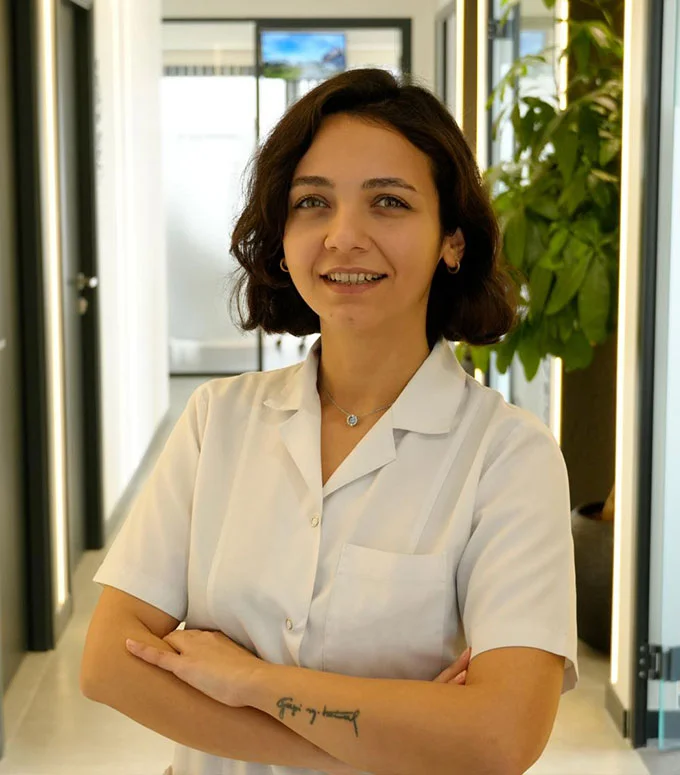
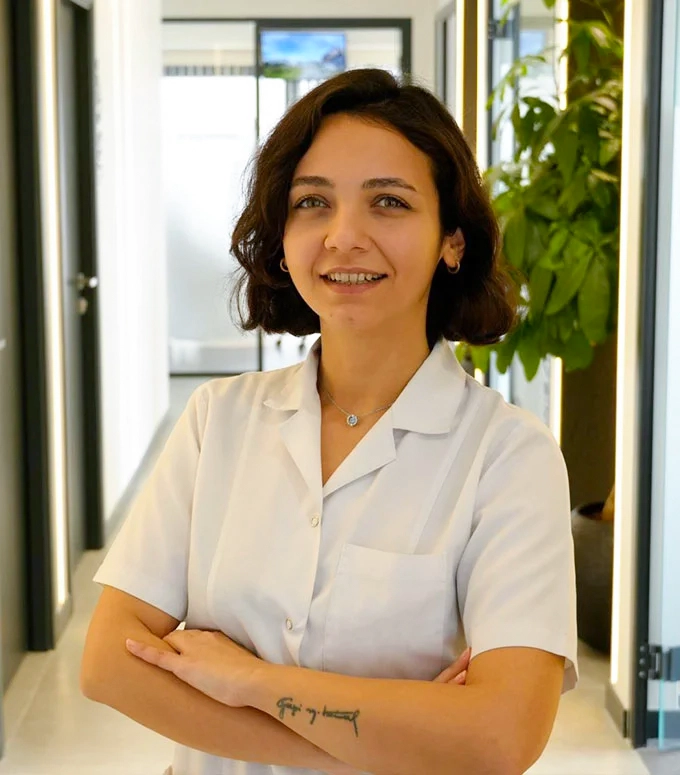
a1: Ucretsiz Muayene randevu blogu, slider gecisi 0.55 sn, hekim fotograflari guncellendi
Claude-Session: https://claude.ai/code/session_01CZ7oaxWpsxduCiVFyRyjQU

diff --git a/a1/index.html b/a1/index.html
@@ -113,8 +113,8 @@ body.lock{overflow:hidden}
 
 /* HERO SLIDER */
 .hero{position:relative;height:clamp(560px,calc(100svh - var(--top-h) - var(--head-h)),860px);overflow:hidden;background:var(--navy);color:#fff;isolation:isolate}
-.slide{position:absolute;inset:0;opacity:0;visibility:hidden;transition:opacity 1.1s var(--ease),visibility 0s 1.1s}
-.slide.on{opacity:1;visibility:visible;transition:opacity 1.1s var(--ease)}
+.slide{position:absolute;inset:0;opacity:0;visibility:hidden;transition:opacity .55s var(--ease),visibility 0s .55s}
+.slide.on{opacity:1;visibility:visible;transition:opacity .55s var(--ease)}
 .slide .ph{position:absolute;inset:0;overflow:hidden}
 .slide .ph img{width:100%;height:100%;object-fit:cover;transform:scale(1.1);transition:transform 7.5s cubic-bezier(.2,.5,.3,1)}
 .slide.on .ph img{transform:scale(1)}
@@ -368,6 +368,40 @@ body.lock{overflow:hidden}
   .dr small{font-size:12.5px;margin-top:4px}
 }
 @media (prefers-reduced-motion:reduce){.dr img,.dr .tx::before{transition:none}}
+/* ===== ÜCRETSİZ MUAYENE (randevu) ===== */
+section[id]{scroll-margin-top:var(--head-h)}
+.appt{padding:clamp(80px,10vw,140px) 0;background:#fff}
+.ap-grid{display:grid;grid-template-columns:1fr 1.1fr;gap:clamp(32px,6vw,96px);align-items:start}
+.appt h2{font-size:clamp(30px,3.4vw,46px);line-height:1.12;font-weight:600;letter-spacing:-.022em;color:var(--navy);text-wrap:balance}
+.appt h2 em{font-style:normal;color:var(--gold-2)}
+.ap-txt p{font-size:16px;line-height:1.75;color:#4E5A62;margin-top:22px;max-width:480px}
+.ap-dir{display:flex;flex-wrap:wrap;gap:10px 28px;margin-top:32px;padding-top:22px;border-top:1px solid var(--line);list-style:none}
+.ap-dir a{display:inline-flex;align-items:center;gap:10px;font-size:15px;font-weight:500;color:var(--navy);transition:color .25s}
+.ap-dir a:hover{color:var(--gold-2)}
+.ap-dir svg{width:18px;height:18px;color:var(--gold-2);flex:none}
+.ap-form{display:grid;gap:26px}
+.ap-f{position:relative;display:block}
+.ap-f span{display:block;font-size:12px;font-weight:600;letter-spacing:.08em;text-transform:uppercase;color:var(--muted);margin-bottom:6px}
+.ap-f input{width:100%;height:52px;border:0;border-bottom:1px solid #CFD5D8;border-radius:0;background:transparent;font:inherit;font-size:17px;color:var(--ink);padding:0;outline:none;transition:border-color .25s}
+.ap-f::after{content:"";position:absolute;left:0;bottom:0;height:2px;width:100%;background:var(--gold);transform:scaleX(0);transform-origin:left;transition:transform .5s var(--ease)}
+.ap-f:focus-within::after{transform:scaleX(1)}
+.ap-f input::placeholder{color:#A9B2B7}
+.ap-kv{display:flex;gap:12px;align-items:flex-start;font-size:13.5px;line-height:1.55;color:var(--muted);cursor:pointer}
+.ap-kv input{flex:none;width:18px;height:18px;margin-top:1px;accent-color:var(--navy)}
+.ap-kv a{color:var(--navy);text-decoration:underline;text-underline-offset:2px}
+.ap-alt{display:flex;align-items:center;gap:20px;flex-wrap:wrap}
+.ap-alt .btn{border:0;cursor:pointer;font-family:inherit}
+.ap-ok{font-size:15px;color:var(--navy);display:none}
+.ap-form.gitti .ap-ok{display:block}
+@media (max-width:1023px){
+  .ap-grid{grid-template-columns:1fr;gap:44px}
+}
+@media (max-width:599px){
+  .ap-txt p{font-size:15.5px;margin-top:16px}
+  .ap-dir{flex-direction:column;gap:14px;margin-top:26px}
+  .ap-form{gap:22px}
+  .ap-alt .btn{width:100%}
+}
 </style>
 </head>
 <body>
@@ -586,6 +620,27 @@ body.lock{overflow:hidden}
     </ul>
   </div>
 </section>
+<section class="appt" id="randevu" aria-labelledby="ap-baslik">
+  <div class="wrap ap-grid">
+    <div class="ap-txt">
+      <h2 class="rv" id="ap-baslik">Ücretsiz Muayene İçin <em>Hemen Randevu Alın</em></h2>
+      <p class="rv d1">Ücretsiz muayene için randevu formunu doldurarak iletişim bilgilerinizi bizimle paylaşın, sizi hemen arayalım. Ücretsiz muayene randevunuzu planlayalım!</p>
+      <ul class="ap-dir rv d2">
+        <li><a href="tel:+902163462122"><svg viewBox="0 0 24 24" fill="none" stroke="currentColor" stroke-width="1.8"><path d="M5 4h4l2 5-2.5 1.5a11 11 0 0 0 5 5L15 13l5 2v4a2 2 0 0 1-2 2A16 16 0 0 1 3 6a2 2 0 0 1 2-2"/></svg>+90 216 346 21 22</a></li>
+        <li><a href="https://wa.me/905453743432" target="_blank" rel="noopener"><svg viewBox="0 0 24 24" fill="none" stroke="currentColor" stroke-width="1.8"><rect x="6" y="2.5" width="12" height="19" rx="2.5"/><path d="M11 18.5h2"/></svg>+90 545 374 34 32</a></li>
+      </ul>
+    </div>
+    <form class="ap-form rv d2" id="ap-form" novalidate>
+      <label class="ap-f"><span>Adınız Soyadınız</span><input type="text" name="ad" autocomplete="name" required></label>
+      <label class="ap-f"><span>Telefon Numaranız</span><input type="tel" name="tel" autocomplete="tel" inputmode="tel" placeholder="05xx xxx xx xx" required></label>
+      <label class="ap-kv"><input type="checkbox" name="kvkk" required><span><a href="#">KVKK Aydınlatma Metni</a>'ni okudum, iletişim bilgilerimin randevu amacıyla işlenmesini kabul ediyorum.</span></label>
+      <div class="ap-alt">
+        <button class="btn d" type="submit">Gönder<svg viewBox="0 0 24 24" fill="none" stroke="currentColor" stroke-width="1.6"><path d="M4 12h15M13 6l6 6-6 6"/></svg></button>
+        <p class="ap-ok" role="status">Teşekkürler, sizi en kısa sürede arayacağız.</p>
+      </div>
+    </form>
+  </div>
+</section>
 </main>
 
 <script>
@@ -638,6 +693,11 @@ body.lock{overflow:hidden}
   if('IntersectionObserver' in window){const io=new IntersectionObserver(es=>es.forEach(e=>{if(e.isIntersecting){e.target.classList.add('in');io.unobserve(e.target);}}),{rootMargin:'0px 0px -8% 0px',threshold:.12});rv.forEach(e=>io.observe(e));}else rv.forEach(e=>e.classList.add('in'));
   pre(1);restartBars();schedule();
 })();
+</script>
+<script>
+/* randevu formu (örnek sayfa: gönderim yok, sadece doğrulama + teşekkür) */
+(()=>{const f=document.getElementById('ap-form');if(!f)return;
+f.addEventListener('submit',e=>{e.preventDefault();if(!f.checkValidity()){f.reportValidity();return}f.classList.add('gitti');f.reset()});})();
 </script>
 </body>
 </html>
